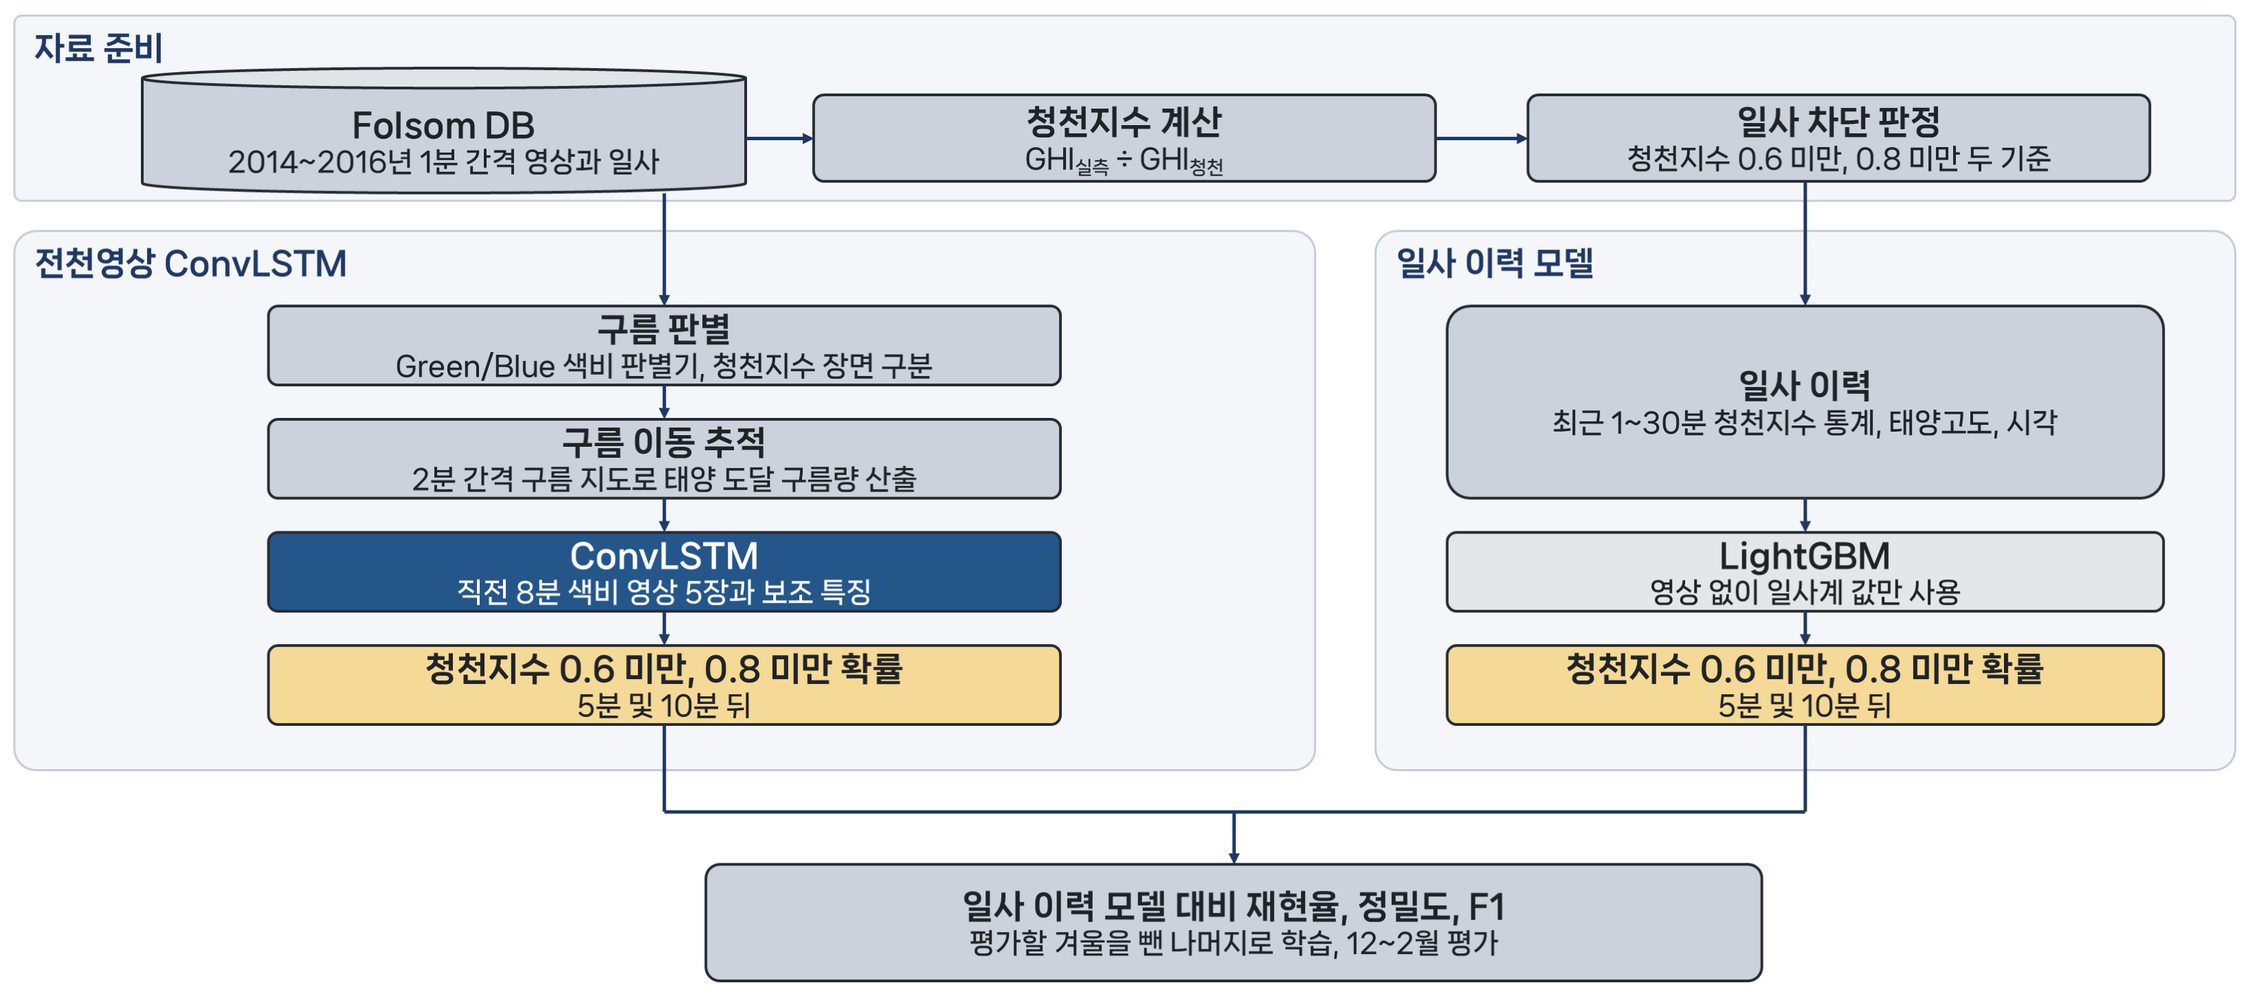
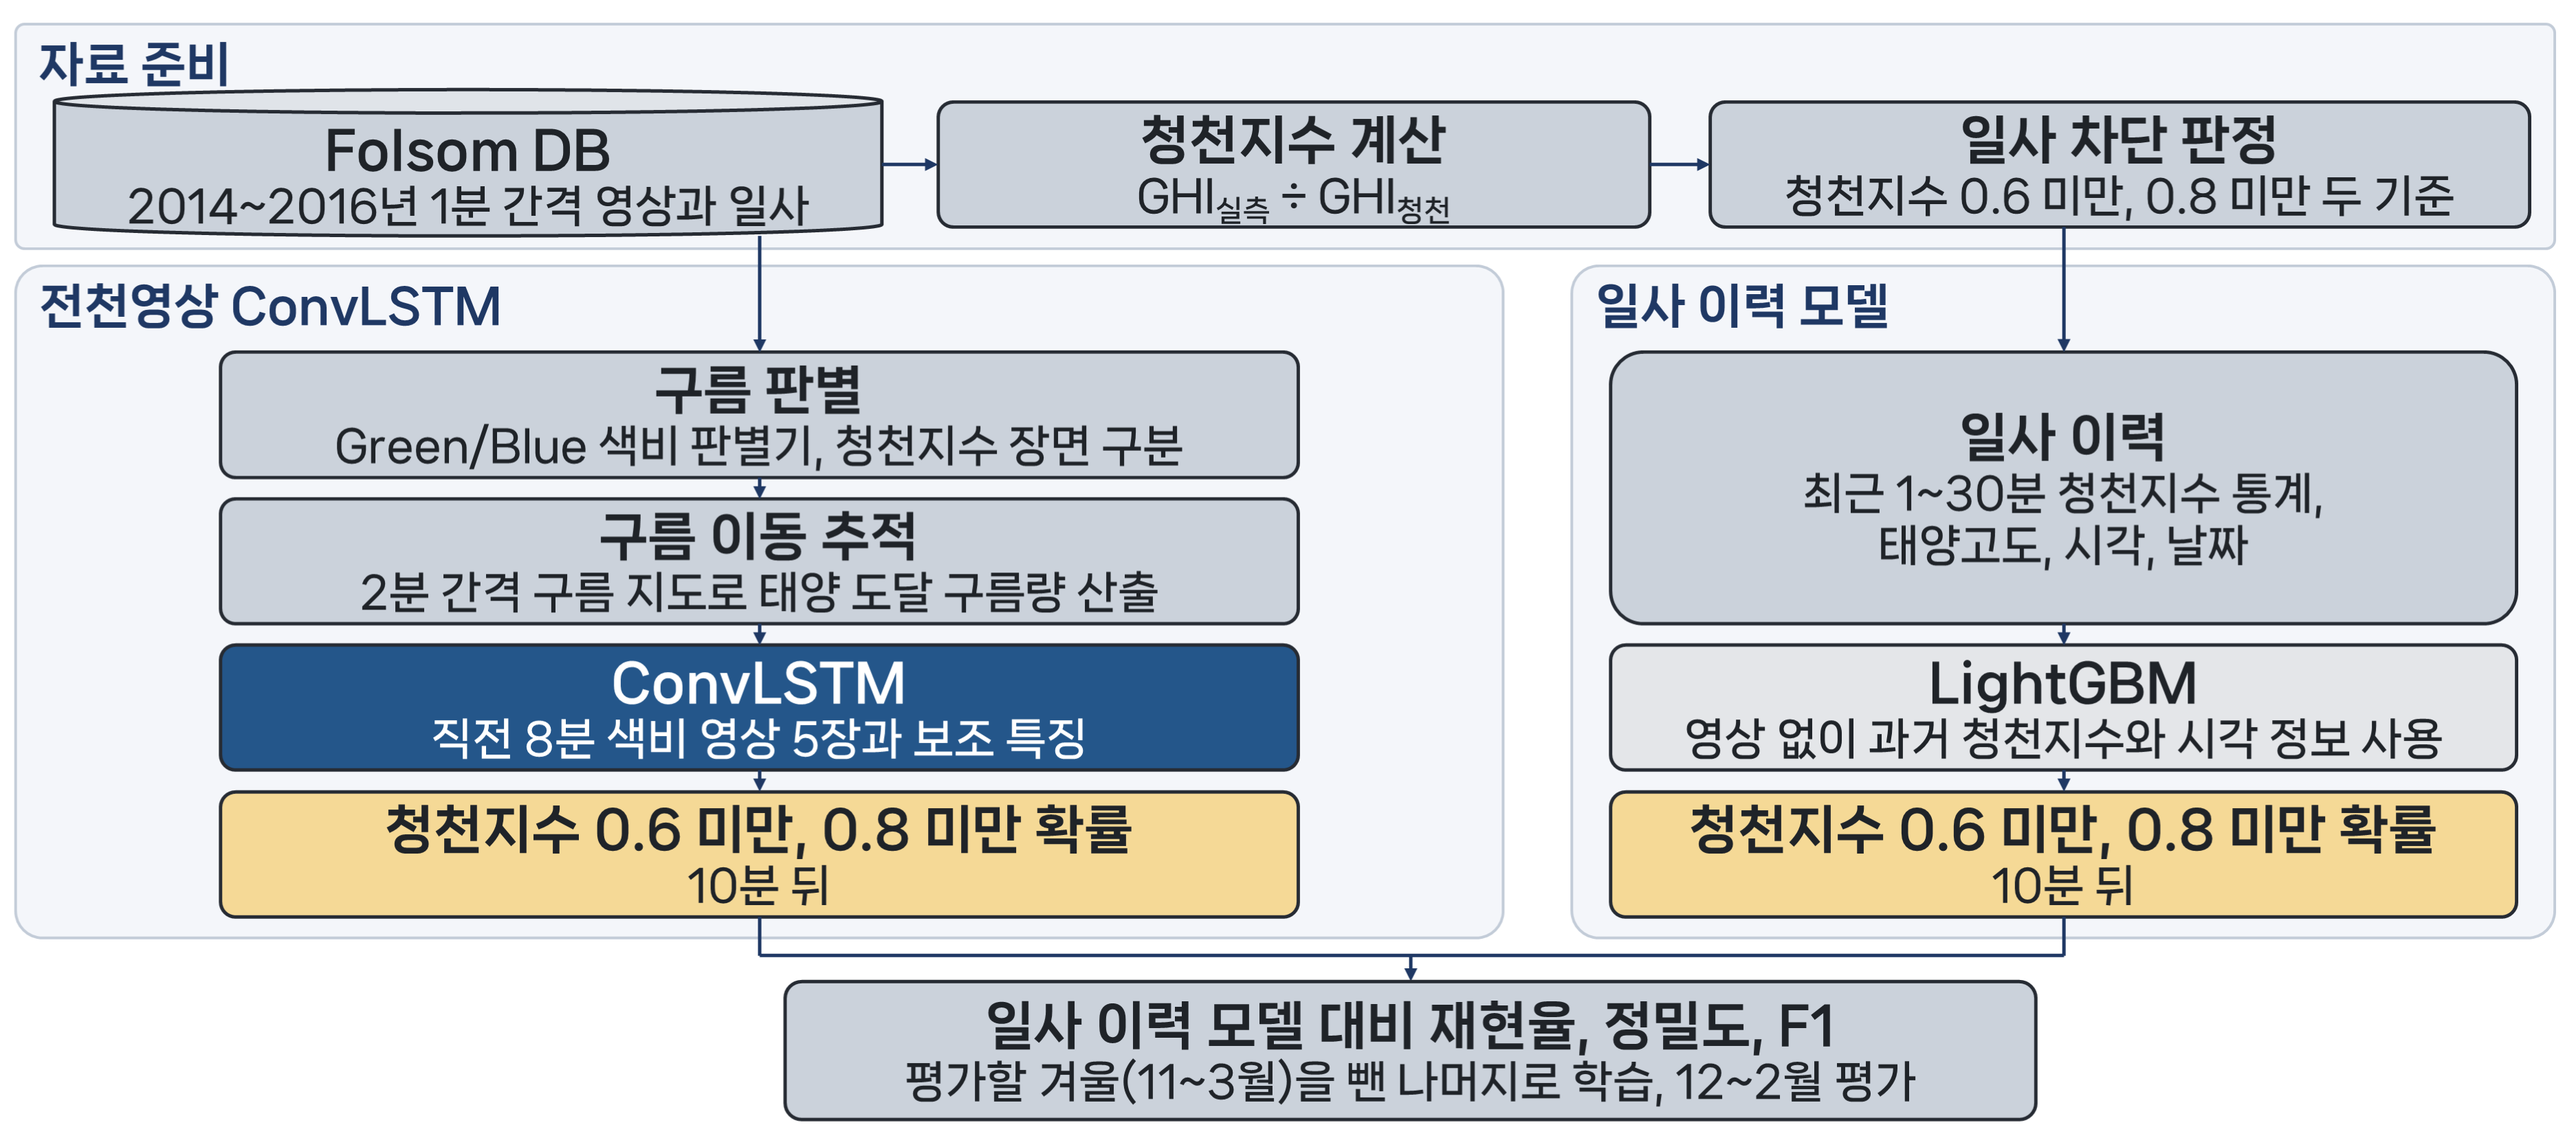
Update figures to final poster version

diff --git a/README.md b/README.md
@@ -13,12 +13,12 @@
 |---|---|
 | [Fig. 1](figures/fig1_flow.png) | 전천영상 ConvLSTM과 일사 이력 모델의 입력, 학습, 평가 흐름 |
 | [Fig. 2](figures/fig2_irradiance_kt.png) | 2014년 12월 4일 Folsom의 1분 일사량(상)과 청천지수(하), 0.6과 0.8 기준 |
-| [Fig. 3](figures/fig3_convlstm.png) | 영상 5장과 보조 특징으로 차단 확률을 내는 ConvLSTM 구조 |
+| [Fig. 3](figures/fig3_convlstm.png) | 영상 5장과 보조 특징으로 10분 뒤 차단 확률을 내는 ConvLSTM 구조 |
 | [Fig. 4](figures/fig4_cloud_detection.png) | 원본 영상의 Green/Blue 색비와 색비 편차로 화소별 구름 확률을 구해 구름을 판별하는 과정 |
 | [Fig. 5](figures/fig5_case.png) | 일사 차단 사례(2015-12-19 13:50)의 전천영상, 실측 청천지수, 10분 전에 예측한 청천지수 0.6 미만 확률(예측 대상 시각에 맞춰 표시) |
 | [Fig. 6](figures/fig6_sky_states.png) | 맑음, 구름 이동, 흐림 상태의 예측 시점 전천영상 |
 | [Fig. 7](figures/fig7_performance.png) | 두 모델의 10분 전 예측 성능(재현율, 정밀도, F1) |
-| [Fig. 8](figures/fig8_after10min.png) | 10분 전 예측과 실제 청천지수의 비교 사례(2015년 12월): (a) 맞힌 사례 12월 1일, (b) 놓친 사례 12월 29일. 다른 오탐 사례: [구름 가장자리](figures/fig8_case_cloud_edge.png), [얇은 구름](figures/fig8_case_thin_cloud.png) |
+| [Fig. 8](figures/fig8_miss_case.png) | 태양 주변 포화로 놓친 사례의 전천영상과 10분 전 예측 확률(0.6 미만, 0.8 미만 확률 중 큰 값) |
 
 ## 주요 결과 (12~2월)
 
